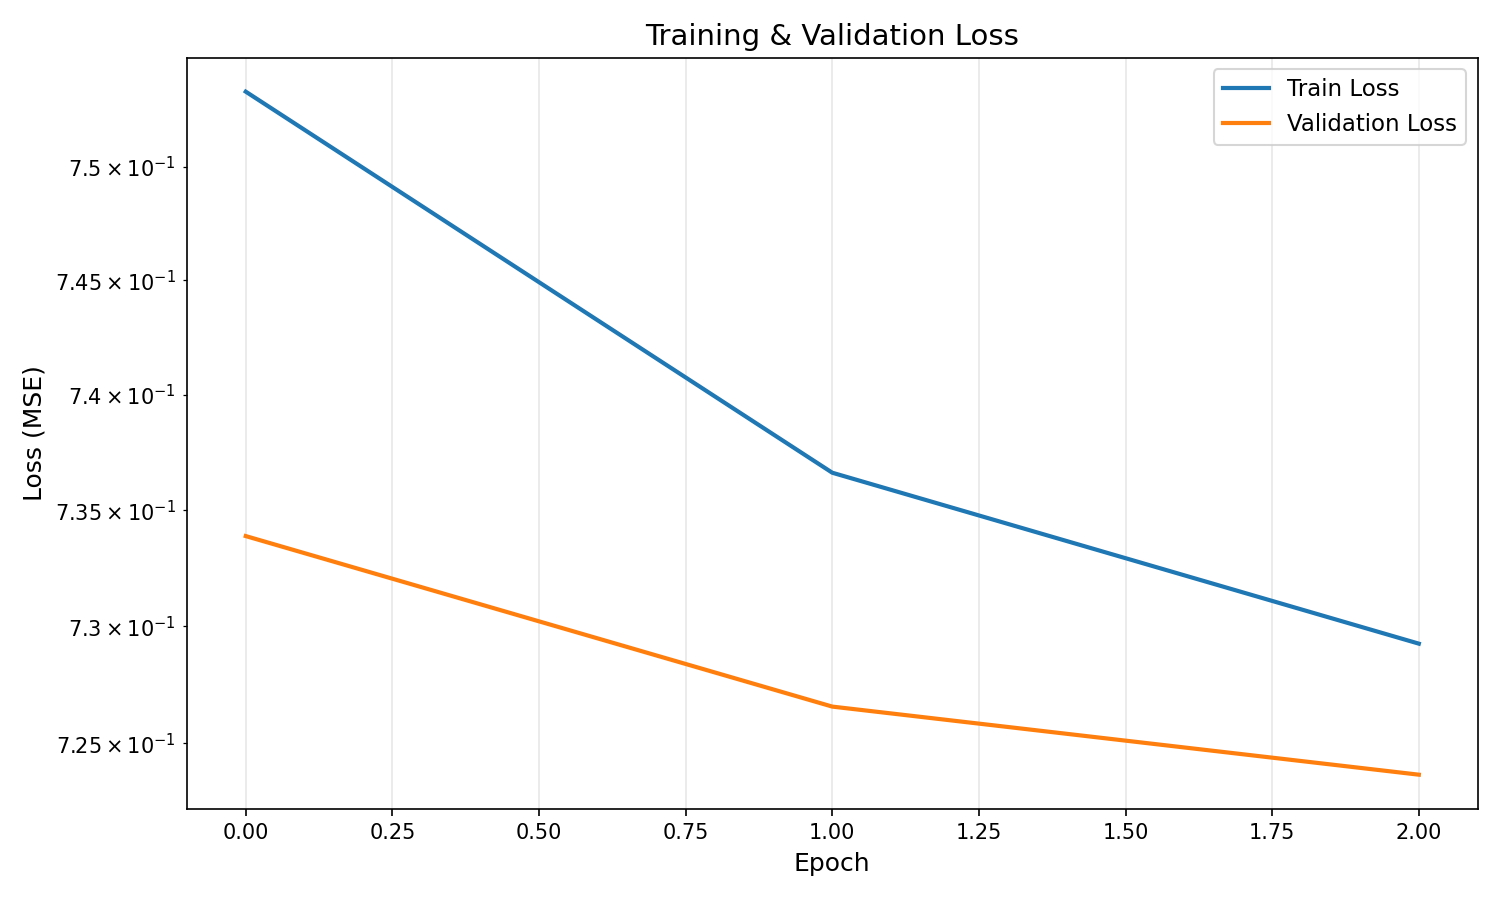
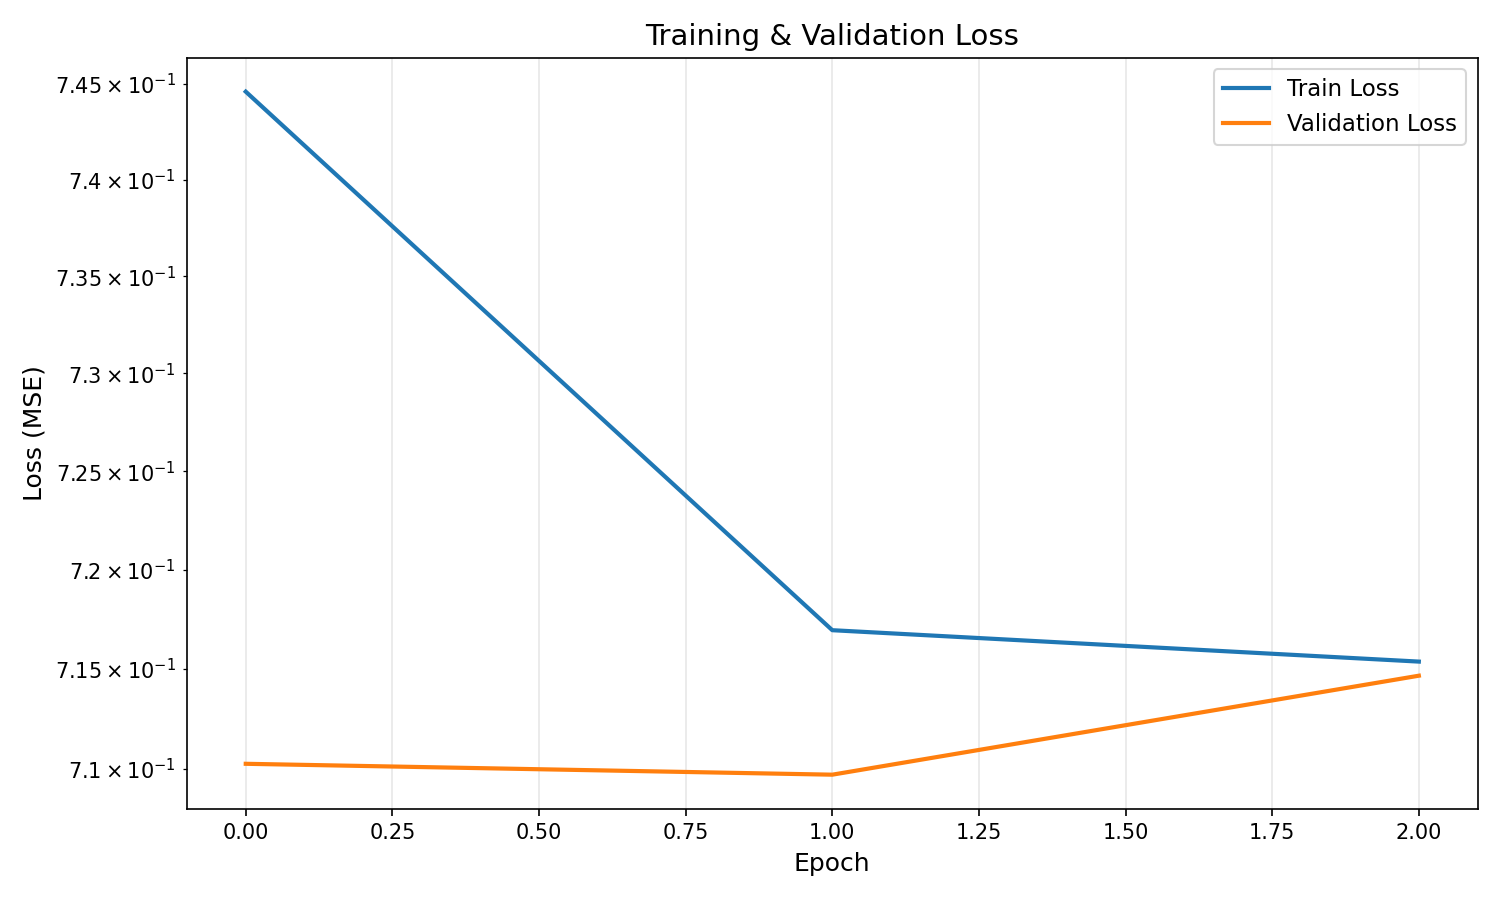
with time and more hidden channels

diff --git a/U-Net/training.py b/U-Net/training.py
@@ -3,6 +3,7 @@
 import torch
 import torch.nn.functional as F
 import matplotlib.pyplot as plt
+import time
 
 
 def train_epoch(model, train_loader, optimizer, device, gradient_clip, num_train_graphs):
@@ -70,6 +71,7 @@ def train_model(model, train_loader, val_loader, optimizer, scheduler, config,
     best_val_loss = float('inf')
     
     for epoch in range(1, config.NUM_EPOCHS + 1):
+        start_time = time.time()
         # Entraînement
         train_loss = train_epoch(
             model, train_loader, optimizer, config.DEVICE, 
@@ -85,6 +87,7 @@ def train_model(model, train_loader, val_loader, optimizer, scheduler, config,
         scheduler.step(val_loss)
         
         # Sauvegarde du meilleur modèle
+        epoch_time = time.time() - start_time
         if val_loss < best_val_loss:
             best_val_loss = val_loss
             torch.save({
@@ -93,9 +96,9 @@ def train_model(model, train_loader, val_loader, optimizer, scheduler, config,
                 'optimizer_state_dict': optimizer.state_dict(),
                 'val_loss': val_loss,
             }, config.BEST_MODEL_PATH)
-            print(f"Epoch {epoch}/{config.NUM_EPOCHS} | Train: {train_loss:.6f} | Val: {val_loss:.6f} | LR: {optimizer.param_groups[0]['lr']:.2e} ✓ Best!")
+            print(f"Epoch {epoch}/{config.NUM_EPOCHS} | Train: {train_loss:.6f} | Val: {val_loss:.6f} | Time: {epoch_time:.3f}s | LR: {optimizer.param_groups[0]['lr']:.2e} ✓ Best!")
         else:
-            print(f"Epoch {epoch}/{config.NUM_EPOCHS} | Train: {train_loss:.6f} | Val: {val_loss:.6f} | LR: {optimizer.param_groups[0]['lr']:.2e}")
+            print(f"Epoch {epoch}/{config.NUM_EPOCHS} | Train: {train_loss:.6f} | Val: {val_loss:.6f} | Time: {epoch_time:.3f}s | LR: {optimizer.param_groups[0]['lr']:.2e}")
     
     print(f"\n🎯 Best validation loss: {best_val_loss:.6f}")
     print("="*70 + "\n")

diff --git a/U-Net/config.py b/U-Net/config.py
@@ -6,12 +6,12 @@ class Config:
     # Données
     TRAIN_DATA_PATH = 'data/train_data.pt'
     VAL_DATA_PATH = 'data/val_data.pt'
-    TRAIN_SUBSET_RATIO = 0.2  # Utiliser 20% des données d'entraînement
+    TRAIN_SUBSET_RATIO = 0.1  # Utiliser 20% des données d'entraînement
     BATCH_SIZE = 1
     
     # Architecture
     IN_CHANNELS = 12
-    HIDDEN_CHANNELS = 16
+    HIDDEN_CHANNELS = 32
     OUT_CHANNELS = 1
     DEPTH = 1
     POOL_RATIOS = 0.3
